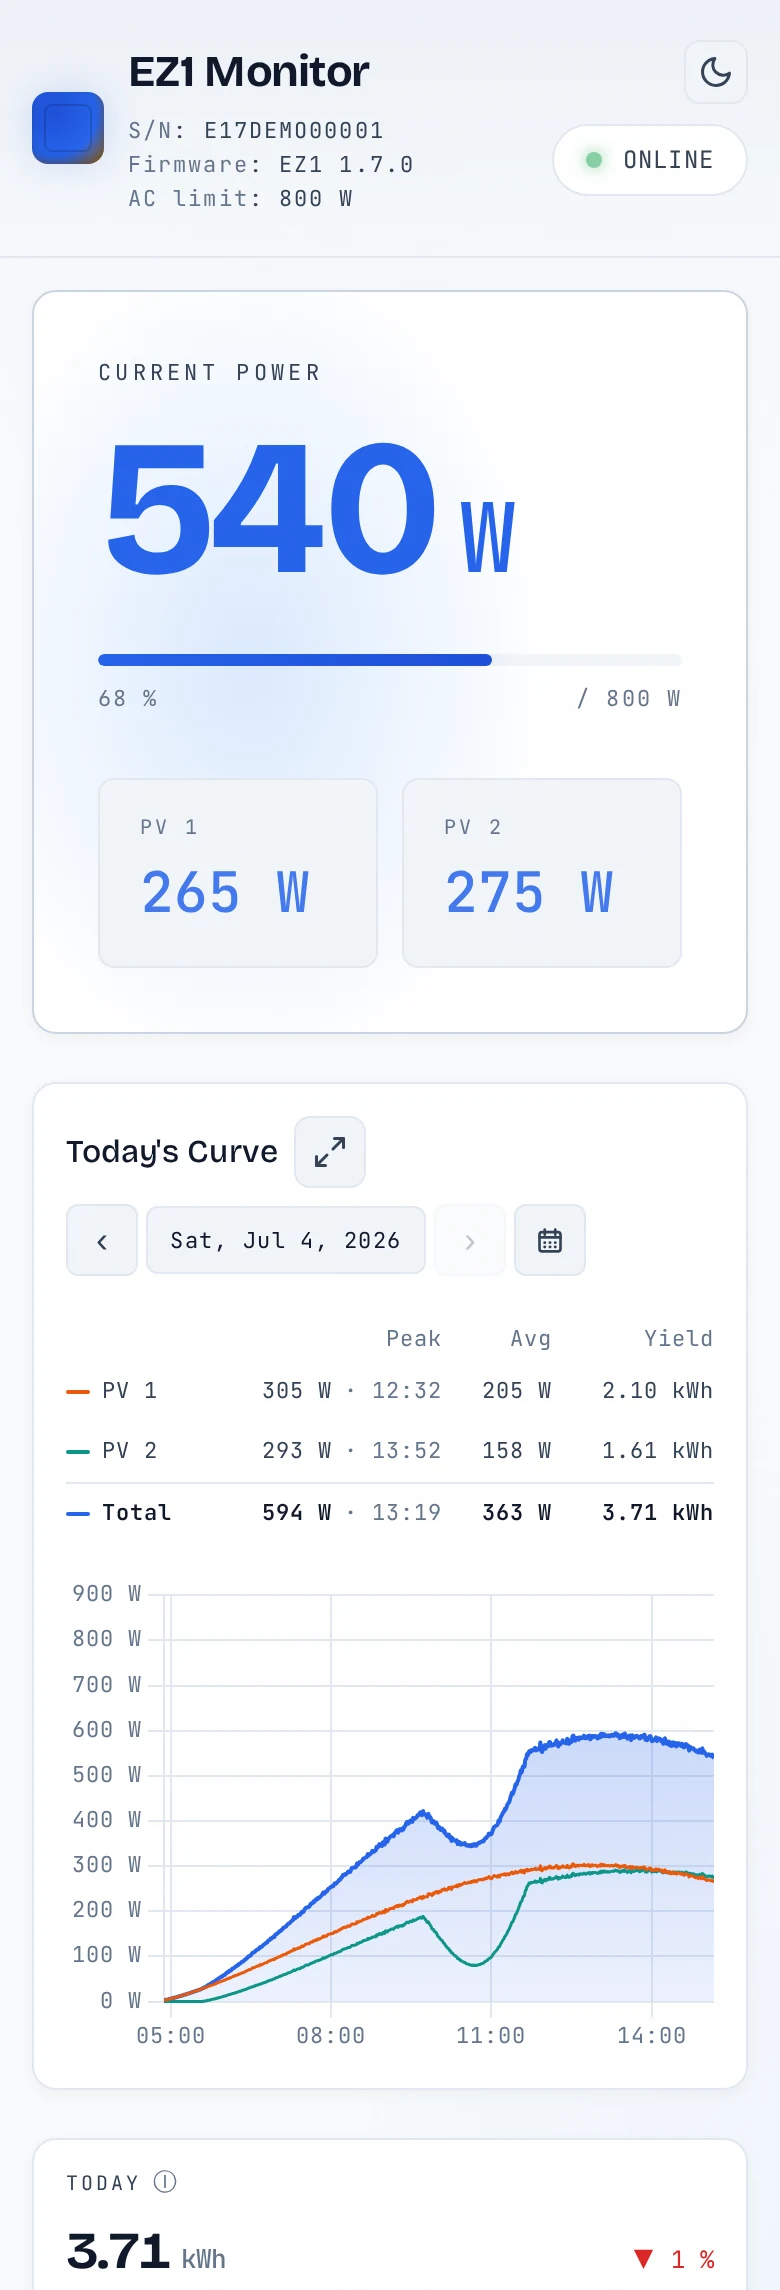
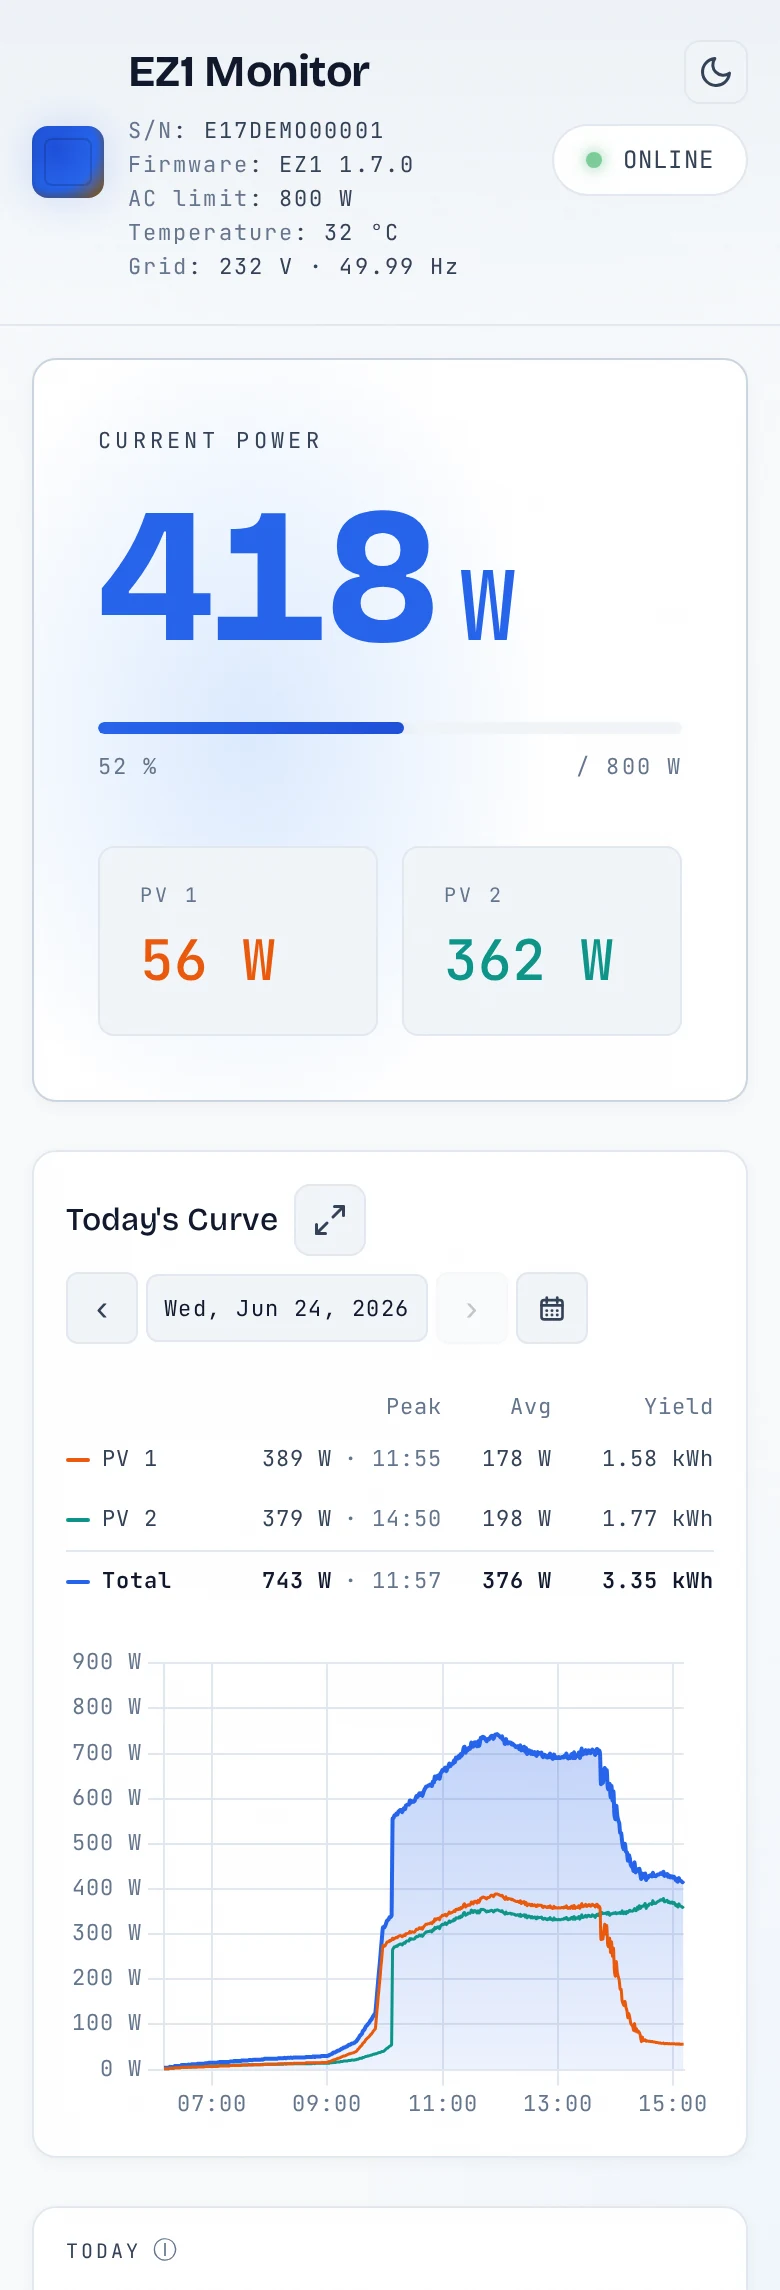
docs: v1.13.0 notes, new screenshots
The demo plant follows a real clear day and answers the new endpoints.

diff --git a/tools/screenshots/demo.py b/tools/screenshots/demo.py
@@ -15,6 +15,7 @@ Stdlib only, so it runs in the ez1-monitor image itself. Needs TZ set to the
 same zone as the monitor, and the same (pinned) clock — compose.yml provides
 both. Not affiliated with any real device: the serial is obviously fake.
 """
+import bisect
 import json
 import math
 import random
@@ -39,8 +40,37 @@ CO2_G_PER_KWH = 380.0              # static factor, as without Electricity Maps
 TARIFF_CHANGE = date(2026, 1, 1)   # 0.32 → 0.35 per kWh, stamped per row
 DENSE_DAYS = 62                    # recent days at the poller's 60 s cadence
 SPARSE_STEP_MIN = 15               # older days: one row every 15 minutes
-# Morning shadow on PV 2, as fractions of the daylight hours and of its power.
-SHADE_START, SHADE_END, SHADE_DEPTH = 0.28, 0.4, 0.65
+# A clear summer day of a real, partly shaded balcony plant, as (minute of the
+# day, PV 1 watts, PV 2 watts): diffuse light only until the sun clears a
+# building around 10:00, the shadow reaching PV 1 at about 14:00 and PV 2 at
+# about 17:30. Every other day is this curve, squeezed into its daylight hours
+# and scaled by season and weather.
+CLEAR_DAY = (
+    (360, 0, 0), (390, 5, 5), (420, 7, 8), (480, 12, 12), (540, 16, 14),
+    (570, 40, 22), (590, 90, 35), (598, 275, 40), (607, 288, 55), (608, 290, 270),
+    (630, 305, 290), (660, 340, 320), (690, 368, 350), (715, 388, 352),
+    (750, 365, 338), (780, 358, 332), (820, 365, 342), (830, 350, 345),
+    (845, 200, 345), (855, 120, 350), (870, 65, 362), (889, 58, 376),
+    (930, 55, 350), (960, 55, 328), (990, 52, 298), (1020, 50, 268),
+    (1032, 48, 160), (1050, 45, 140), (1060, 40, 50), (1080, 35, 45),
+    (1110, 30, 30), (1140, 22, 25), (1200, 12, 12), (1260, 3, 3), (1275, 0, 0),
+)
+# Its share of the (model) daylight hours, and its midpoint after solar noon.
+CLEAR_DAY_SPAN, CLEAR_DAY_MID_AFTER_NOON_H = 0.924, 0.29
+# PV 1 flickers while the edge of the shadow moves across it.
+SHADOW_EDGE_MINUTES = (825, 870)
+# The anniversary of the record day, which the demo's clock is pinned to.
+BEST_DAY = (6, 24)
+
+
+def _clear_day(minute: float) -> tuple:
+    """(p1, p2) of the CLEAR_DAY curve at the given minute of that day."""
+    i = bisect.bisect_right([point[0] for point in CLEAR_DAY], minute)
+    if i == 0 or i == len(CLEAR_DAY):
+        return 0.0, 0.0
+    (m0, a0, b0), (m1, a1, b1) = CLEAR_DAY[i - 1], CLEAR_DAY[i]
+    f = (minute - m0) / (m1 - m0)
+    return a0 + (a1 - a0) * f, b0 + (b1 - b0) * f
 
 
 def _season(d: date) -> float:
@@ -53,30 +83,28 @@ def _dst_hours(d: date) -> int:
     return 1 if time.localtime(noon).tm_isdst > 0 else 0
 
 
-def _shape(x: float) -> float:
-    """Clear-sky bell over the daylight fraction x in [0, 1]."""
-    return math.sin(math.pi * x) ** 1.3 if 0.0 < x < 1.0 else 0.0
-
-
 @lru_cache(maxsize=None)
 def day_profile(d: date) -> tuple:
     """Per-minute (p1, p2) watts of local wall-clock day d, plus the first
-    and last minute the inverter is awake. Two panels facing slightly east
-    and west of south, under that day's (seeded) weather."""
+    and last minute the inverter is awake. The CLEAR_DAY curve under that
+    day's (seeded) weather."""
     rng = random.Random(d.toordinal() * 7919)
     s = _season(d)
     daylight_h = 12.2 + 4.3 * s
     noon_h = 12 + 20 / 60 + _dst_hours(d)      # solar noon at ~10° E
-    rise_h, set_h = noon_h - daylight_h / 2, noon_h + daylight_h / 2
-    peak_w = 500 + 130 * s                     # clear-sky DC peak, both inputs
+    span_h = CLEAR_DAY_SPAN * daylight_h
+    rise_h = noon_h + CLEAR_DAY_MID_AFTER_NOON_H - span_h / 2
+    strength = 0.72 + 0.28 * s                 # lower winter sun
 
     sunny_odds = 0.38 + 0.2 * s                # grey winters, sunnier summers
     roll = rng.random()
     # A sunny streak into "today" (the pinned demo date, see compose.yml)
     # gives the live curve, the week view and the record-pace pill
-    # something to show.
-    if 0 <= (date.today() - d).days < 4 or roll < sunny_odds:
-        kind, level = "sunny", rng.uniform(0.9, 1.0)
+    # something to show. Only the record day itself reaches the full curve.
+    if (d.month, d.day) == BEST_DAY:
+        kind, level = "sunny", 1.0
+    elif 0 <= (date.today() - d).days < 4 or roll < sunny_odds:
+        kind, level = "sunny", rng.uniform(0.82, 0.97)
     elif roll < sunny_odds + 0.33:
         kind, level = "mixed", rng.uniform(0.4, 0.75)
     else:
@@ -95,13 +123,12 @@ def day_profile(d: date) -> tuple:
             t = cloud
         else:
             t = level * (1 + rng.gauss(0, 0.03))
-        x = (h - rise_h) / (set_h - rise_h)
-        p1 = 0.51 * peak_w * _shape(x + 0.025) * t
-        p2 = 0.49 * peak_w * _shape(x - 0.025) * t
-        # A chimney shades one panel for a while each morning, which is what
-        # the per-panel figures and lines are there to reveal.
-        if SHADE_START < x < SHADE_END:
-            p2 *= 1 - SHADE_DEPTH * math.sin(math.pi * (x - SHADE_START) / (SHADE_END - SHADE_START))
+        x = (h - rise_h) / span_h
+        curve_minute = CLEAR_DAY[0][0] + x * (CLEAR_DAY[-1][0] - CLEAR_DAY[0][0])
+        clear1, clear2 = _clear_day(curve_minute)
+        p1, p2 = clear1 * strength * t, clear2 * strength * t
+        if kind == "sunny" and SHADOW_EDGE_MINUTES[0] < curve_minute < SHADOW_EDGE_MINUTES[1]:
+            p1 *= rng.uniform(0.8, 1.0)
         if p1 + p2 > AC_LIMIT_W:
             k = AC_LIMIT_W / (p1 + p2)
             p1, p2 = p1 * k, p2 * k
@@ -233,13 +260,27 @@ def build_db(path: str) -> None:
 
 # --- serve -------------------------------------------------------------------
 
+def detail(d: date, minute: int) -> dict:
+    """The reading plus temperature and grid values, warmer under load."""
+    r = reading(d, minute)
+    rng = random.Random(d.toordinal() * 1440 + minute)
+    return {**r, "t": round(23 + 0.022 * (r["p1"] + r["p2"])),
+            "gv": round(232 + rng.uniform(-2, 4)),
+            "gf": round(50 + rng.uniform(-0.03, 0.03), 2)}
+
+
 class _FakeInverter(BaseHTTPRequestHandler):
-    """The two local-API endpoints the monitor polls, in the EZ1-M format."""
+    """The local-API endpoints the monitor polls, in the EZ1-M format."""
 
     def do_GET(self):
         now = datetime.now()
-        if self.path.startswith("/getOutputData"):
-            data = reading(now.date(), now.hour * 60 + now.minute)
+        minute = now.hour * 60 + now.minute
+        if self.path.startswith("/getOutputDataDetail"):
+            data = detail(now.date(), minute)
+        elif self.path.startswith("/getOutputData"):
+            data = reading(now.date(), minute)
+        elif self.path.startswith("/getMaxPower"):
+            data = {"maxPower": str(AC_LIMIT_W)}
         elif self.path.startswith("/getDeviceInfo"):
             data = {"deviceId": DEVICE_ID, "devVer": FIRMWARE, "ssid": "demo",
                     "ipAddr": self.server.server_address[0], "minPower": "30",

diff --git a/tools/screenshots/shoot.py b/tools/screenshots/shoot.py
@@ -10,6 +10,7 @@ WebP: a fraction of the PNG size at no visible loss.
 """
 import json
 import sys
+import time
 import urllib.request
 from datetime import datetime, timezone
 from pathlib import Path
@@ -32,6 +33,16 @@ def backend_now() -> datetime:
     with urllib.request.urlopen(f"{BASE}/api/live") as r:
         latest = json.load(r)["latest"]
     return datetime.fromtimestamp(latest["timestamp"] + 5, tz=timezone.utc)
+
+
+def wait_for_detail_values() -> None:
+    """The temperature reaches the top bar with the second poll after startup."""
+    for _ in range(150):
+        with urllib.request.urlopen(f"{BASE}/api/live") as r:
+            if json.load(r)["latest"].get("temp_c") is not None:
+                return
+        time.sleep(1)
+    sys.exit("The monitor never reported a temperature")
 
 
 def open_dashboard(browser, theme, viewport, mobile=False):
@@ -86,6 +97,7 @@ def shoot_region(page, name, *selectors, pad=0):
 
 def main():
     OUT.mkdir(parents=True, exist_ok=True)
+    wait_for_detail_values()
     with sync_playwright() as p:
         browser = p.chromium.launch()
 

diff --git a/UPGRADING.md b/UPGRADING.md
@@ -22,6 +22,7 @@ are idempotent. Only these releases do anything noticeable on first start:
 
 | Release | What happens on first start |
 |---|---|
+| v1.13.0 | `ALTER TABLE` adds the temperature, grid and daily counter columns, the startup backfill fills in the counters (instant, the backfill runs on every start anyway) |
 | v1.9.1 | Drops a redundant index on `measurements` (instant) |
 | v1.6.1 | `ALTER TABLE` adds the electricity-price and firmware columns (instant) |
 | v1.6.0 | Creates `daily_aggregates` and backfills it — 1–3 s, up to ~15 s on a full 2-year install on a Raspberry Pi |
@@ -29,6 +30,44 @@ are idempotent. Only these releases do anything noticeable on first start:
 | v1.1.0 | **Manual step:** the container runs as UID 1000 — see [below](#from-v10x-to-v110) |
 
 The rest of this file is the release history, newest first.
+
+## From v1.12.1 to v1.13.0
+
+No manual steps. The database migrates by itself on first start.
+
+- **Temperature and grid values in the top bar.** Inverter temperature, grid
+  voltage and frequency, read once a minute from the inverter's
+  `getOutputDataDetail` endpoint and stored with every measurement, ready for a
+  chart in a later release. They are hidden while the inverter sleeps and on
+  firmware that doesn't report them. If a regular poll fails right after this
+  request, the monitor leaves it alone for ten minutes, so firmware that
+  doesn't cope well with it isn't disturbed.
+- **The real AC limit.** The top bar and the power bar now use the limit in
+  force (`getMaxPower`, re-read hourly). They used to show the highest value
+  that can be set, for example 1800 W on an EZ1-D limited to 800 W. The limit
+  shown corrects itself within a minute of starting the new version.
+- **Lifetime figures survive a counter reset.** Some firmware wraps its
+  lifetime counters to 0 near 540 kWh, and a replaced inverter starts over.
+  The monitor now keeps each day's counter readings and adds a real fall back,
+  so lifetime energy, money, CO₂ and payback stay put. A counter that never
+  falls gives exactly the same figures as before, and short glitches in either
+  direction are ignored.
+- **`LIFETIME_OFFSET_KWH` (optional, default 0).** Adds a fixed amount to the
+  lifetime total, negative to lower it, for a counter wrap from before the
+  monitor was set up or a manual correction. Wraps the monitor sees are added
+  back by itself, entering one of those would count it twice.
+- **Total generation can show what the monitor recorded.** Click the card to
+  switch between the inverter's lifetime counter and the sum of the history
+  bars. Your browser remembers the choice. Money, CO₂ and payback stay on the
+  inverter's counter. `/api/stats` gains `recorded_kwh` and `first_data_date`.
+- **Chart tooltip on phones.** In the day chart it now shows only while you
+  hold a finger on the chart, follows it, and disappears on release. A swipe
+  across the chart scrolls the page. The other charts are unchanged.
+- **PV tiles in the colors of their lines.** The PV 1 and PV 2 values match
+  their lines in the day chart.
+- **`INSTALL_KWP` removed.** It was only passed through `/api/live`
+  (`config.install_kwp` is gone too). A variable still set on your container
+  is simply ignored and can be deleted.
 
 ## From v1.12.0 to v1.12.1
 

diff --git a/README.md b/README.md
@@ -47,7 +47,8 @@ to live grid CO₂ data.
 </picture>
 
 - ⚡ **Live view.** Total and per-input power, refreshed every 10 s while the
-  sun is up and right away when you come back to the tab.
+  sun is up and right away when you come back to the tab, plus inverter
+  temperature, grid voltage and frequency where the firmware reports them.
 - 📈 **Every day, browsable.** The day's curve plus a day picker for every
   recorded day in the retention window — or jump there from a history bar.
 - 🌤 **Shading at a glance.** Peak, average and yield per panel and in total
@@ -228,6 +229,7 @@ All configuration is done via environment variables.
 | `SELF_CONSUMPTION_PCT` | `100` | Share (%) of production you use yourself; only affects money and payback |
 | `FEED_IN_TARIFF` | `0` | Compensation per fed-in kWh, same currency (often `0` for balcony plants) |
 | `INSTALL_COST` | `0` | Total installation cost; `> 0` shows the payback card |
+| `LIFETIME_OFFSET_KWH` | `0` | Added to the lifetime total, negative lowers it; rarely needed, see [Savings, payback & CO₂](#savings-payback--co) |
 | `CO2_KG_PER_KWH` | `0.38` | Static grid CO₂ factor — the fallback without Electricity Maps |
 | `ELECTRICITY_MAPS_TOKEN` | *(empty)* | Enables [live grid intensity](#live-grid-intensity-electricity-maps) |
 | `ELECTRICITY_MAPS_ZONE` | `DE` | Zone label for the UI (the actual zone is bound to the token) |
@@ -257,6 +259,19 @@ inverter answers again. A single dropped poll is neither: the inverter only
 counts as offline after three failed polls in a row.
 
 ## Savings, payback & CO₂
+
+**Total generation** is the inverter's own lifetime counter, including what
+it produced before the monitor was set up. Click the card to see only what
+the monitor recorded itself, which is what the history bars add up to; days
+the monitor wasn't running are missing from it. Money, CO₂ and payback always
+build on the inverter's counter.
+
+Some firmware wraps each input's lifetime counter to 0 near 540 kWh. The
+monitor notices that and carries on from the old level. `LIFETIME_OFFSET_KWH`
+is only for what it can't know: a wrap from before it was set up (enter the
+level the counter wrapped at, e.g. `540`), or a manual correction (negative
+values lower the total). Don't enter a wrap the monitor saw itself, that would
+count it twice.
 
 **Money saved** values every kWh at the price stamped on its reading.
 Production without a stamp, from before the monitor was set up, counts at
@@ -431,6 +446,7 @@ ez1-monitor/
 │   ├── database.py        # SQLite schema, migrations, aggregates, all queries
 │   ├── co2.py             # Electricity Maps client + live/stale/avg/static resolver
 │   ├── money.py           # savings and payback model (pure)
+│   ├── lifetime.py        # lifetime counters across a counter reset (pure)
 │   ├── date_helpers.py    # calendar and ISO-week math (pure)
 │   └── static/            # dashboard: index.html, app.js, i18n.js, style.css, vendored libs
 ├── tests/                 # pytest suites
